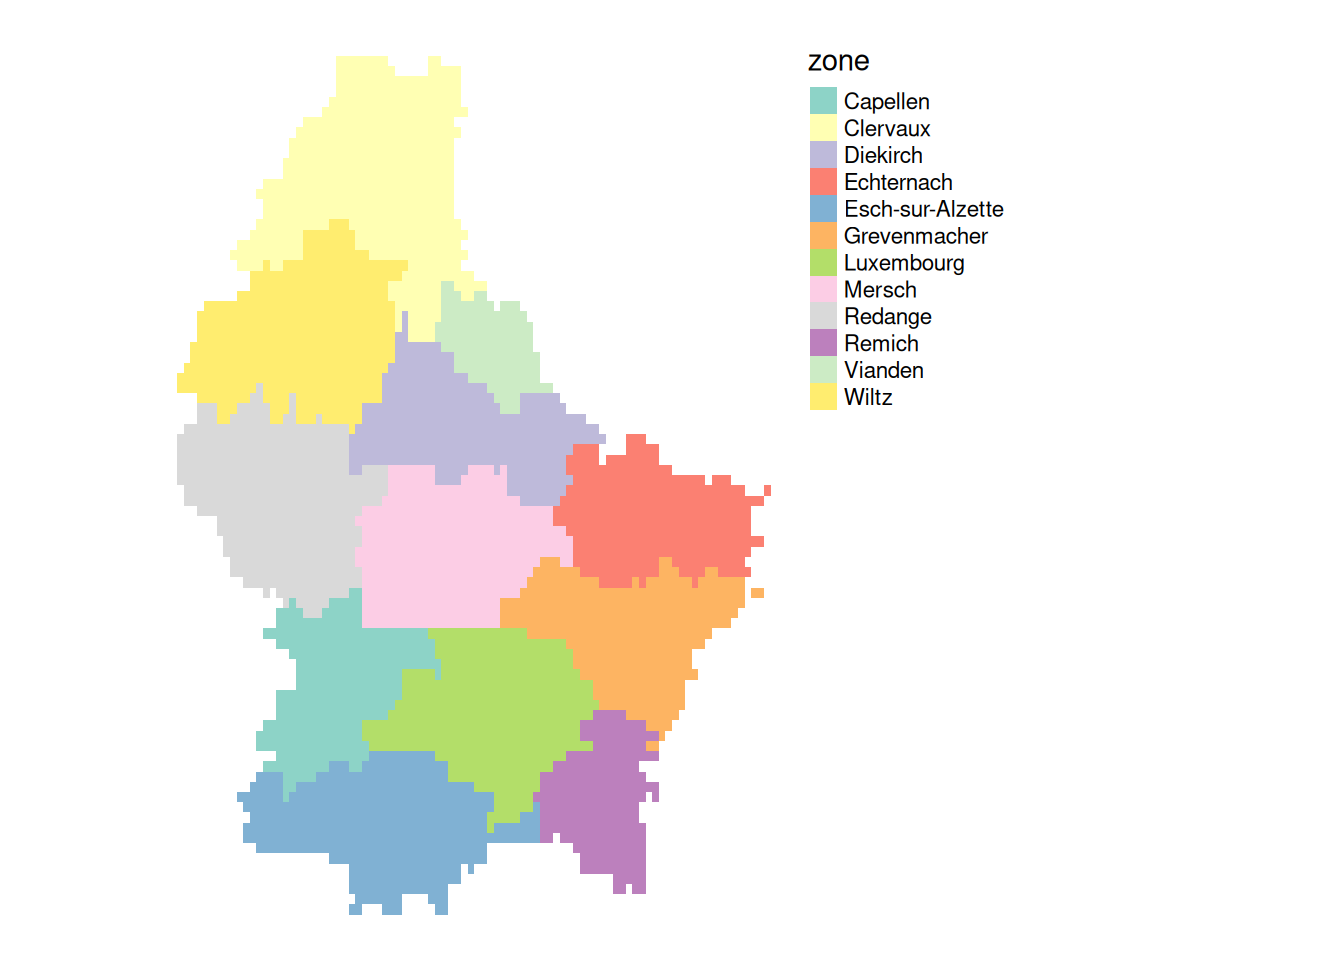
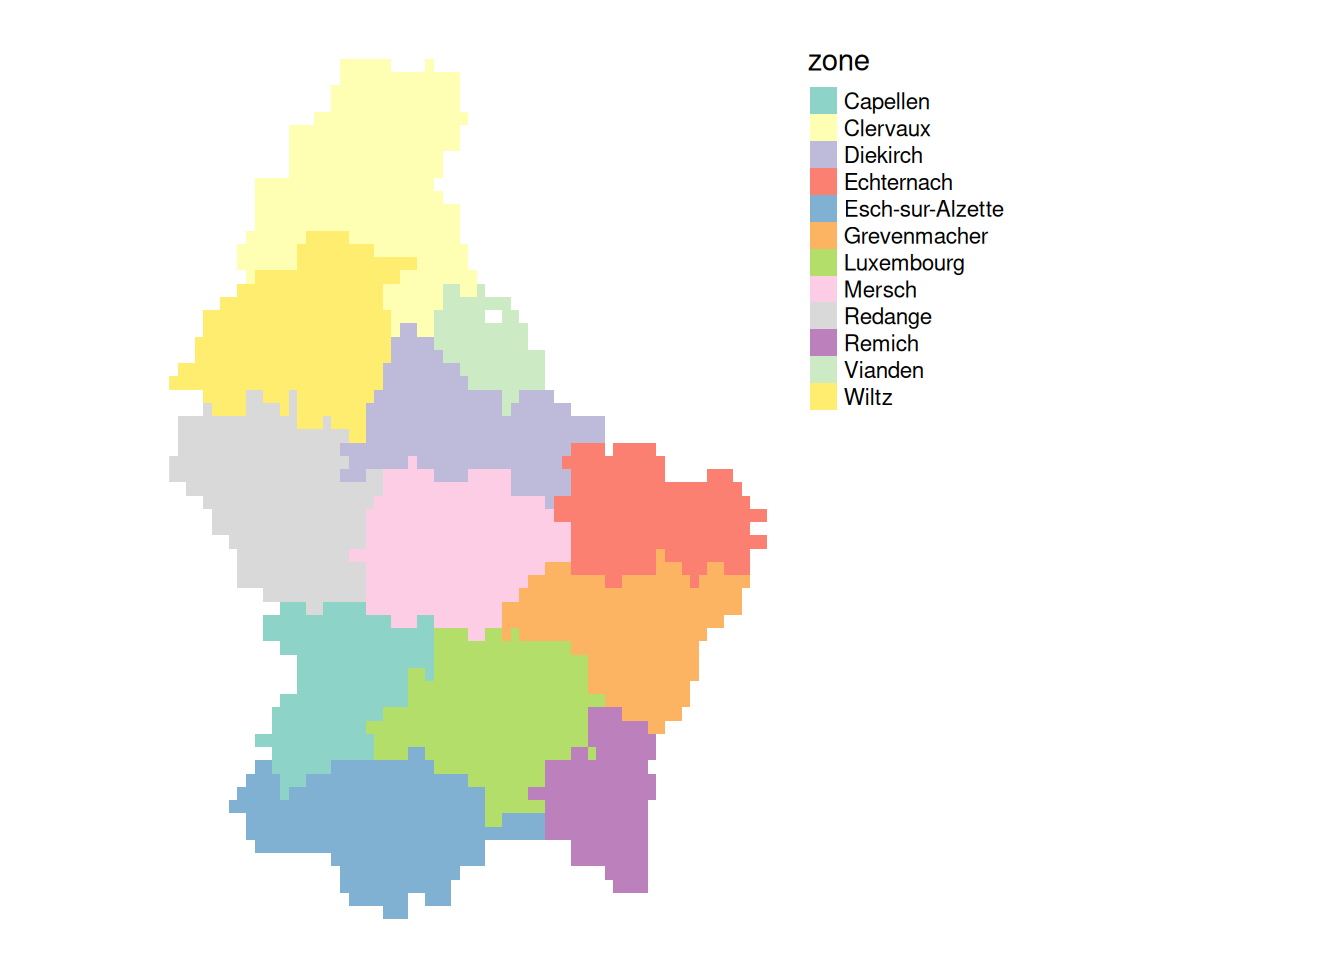
Built site for gh-pages

diff --git a/raster-vector-operations.html b/raster-vector-operations.html
@@ -248,6 +248,7 @@ pre > code.sourceCode > span > a:first-child::before { text-decoration: underlin
   <li><a href="#extracting-raster-values-at-vector-points" id="toc-extracting-raster-values-at-vector-points" class="nav-link" data-scroll-target="#extracting-raster-values-at-vector-points">Extracting raster values at vector points</a></li>
   <li><a href="#vector-to-raster-conversion" id="toc-vector-to-raster-conversion" class="nav-link" data-scroll-target="#vector-to-raster-conversion">Vector to raster conversion</a></li>
   <li><a href="#raster-to-vector-conversion" id="toc-raster-to-vector-conversion" class="nav-link" data-scroll-target="#raster-to-vector-conversion">Raster to vector conversion</a></li>
+  <li><a href="#tasks" id="toc-tasks" class="nav-link" data-scroll-target="#tasks">🪕 Tasks</a></li>
   </ul>
 </nav>
     </div>
@@ -378,6 +379,15 @@ Figure&nbsp;7.3: The resulting zones (mean elevation per zone), also as vector d
 <li><code>field</code>: The name of the column in the vector data that should be used to fill the raster cells</li>
 </ol></li>
 </ul>
+<div class="cell">
+<div class="sourceCode cell-code" id="cb4"><pre class="sourceCode r code-with-copy"><code class="sourceCode r"><span id="cb4-1"><a href="#cb4-1" aria-hidden="true" tabindex="-1"></a><span class="co"># we can create a template using the input vector. All we have to specify </span></span>
+<span id="cb4-2"><a href="#cb4-2" aria-hidden="true" tabindex="-1"></a><span class="co"># is the resolution of the output raster, which is evalutated in the units of</span></span>
+<span id="cb4-3"><a href="#cb4-3" aria-hidden="true" tabindex="-1"></a><span class="co"># the CRS of the input vector data (meters in our case).</span></span>
+<span id="cb4-4"><a href="#cb4-4" aria-hidden="true" tabindex="-1"></a></span>
+<span id="cb4-5"><a href="#cb4-5" aria-hidden="true" tabindex="-1"></a>template <span class="ot">&lt;-</span> <span class="fu">rast</span>(zones, <span class="at">resolution =</span> <span class="dv">1000</span>)</span>
+<span id="cb4-6"><a href="#cb4-6" aria-hidden="true" tabindex="-1"></a></span>
+<span id="cb4-7"><a href="#cb4-7" aria-hidden="true" tabindex="-1"></a>zones_raster <span class="ot">&lt;-</span> <span class="fu">rasterize</span>(zones, template, <span class="st">"zone"</span>)</span></code><button title="Copy to Clipboard" class="code-copy-button"><i class="bi"></i></button></pre></div>
+</div>
 <div class="cell page-columns page-full" data-layout-nrow="1">
 <div id="fig-vector-to-raster" class="quarto-layout-panel page-columns page-full">
 <figure class="quarto-float quarto-float-fig figure page-columns page-full">
@@ -436,8 +446,8 @@ Note
 <li>The resulting object will be of class <code>SpatVector</code>. This can be converted to the <code>sf</code> class using <code>st_as_sf()</code></li>
 </ul>
 <div class="cell">
-<div class="sourceCode cell-code" id="cb4"><pre class="sourceCode r code-with-copy"><code class="sourceCode r"><span id="cb4-1"><a href="#cb4-1" aria-hidden="true" tabindex="-1"></a>zones_poly <span class="ot">&lt;-</span> <span class="fu">as.polygons</span>(zones_raster) <span class="sc">|&gt;</span> </span>
-<span id="cb4-2"><a href="#cb4-2" aria-hidden="true" tabindex="-1"></a>  <span class="fu">st_as_sf</span>()</span></code><button title="Copy to Clipboard" class="code-copy-button"><i class="bi"></i></button></pre></div>
+<div class="sourceCode cell-code" id="cb5"><pre class="sourceCode r code-with-copy"><code class="sourceCode r"><span id="cb5-1"><a href="#cb5-1" aria-hidden="true" tabindex="-1"></a>zones_poly <span class="ot">&lt;-</span> <span class="fu">as.polygons</span>(zones_raster) <span class="sc">|&gt;</span> </span>
+<span id="cb5-2"><a href="#cb5-2" aria-hidden="true" tabindex="-1"></a>  <span class="fu">st_as_sf</span>()</span></code><button title="Copy to Clipboard" class="code-copy-button"><i class="bi"></i></button></pre></div>
 </div>
 <div class="cell page-columns page-full" data-layout-nrow="1">
 <div id="fig-raster-to-vector" class="quarto-layout-panel page-columns page-full">
@@ -474,6 +484,46 @@ Note
 Figure&nbsp;7.5: Note how the conversion back to polygons preserves the cell boundaries
 </figcaption>
 </figure>
+</div>
+</div>
+</section>
+<section id="tasks" class="level2">
+<h2 class="anchored" data-anchor-id="tasks">🪕 Tasks</h2>
+<ol type="1">
+<li>Import <code>Arealstatistik.gpkg</code> from <em>Spatial_Analysis_II</em> using <code>{sf}</code></li>
+<li>To rasterize the data, we need a template raster object. Create a template raster object with a resolution of 100m using the <code>rast()</code> function</li>
+<li>Rasterize the arealstatistik data using the function <code>rasterize</code>, the tempalte from the previous step, and the column <code>AS_4</code> as the field to fill the raster cells</li>
+</ol>
+<ol start="4" type="1">
+<li>The resulting raster contains the integer values 1 to 4. These values correspond to the following land use categories (see <a href="https://www.bfs.admin.ch/asset/en/1420906">metadata</a>):
+<ol type="1">
+<li>Settlement and urban areas</li>
+<li>Agricultural areas</li>
+<li>Wooded areas</li>
+<li>Unproductive areas</li>
+</ol></li>
+</ol>
+<p>To make the raster more interpretable, assign the corresponding names to the levels of the raster using the <code>levels()</code> function. The levels should be a data.frame with two columns: <code>ID</code> and <code>name</code> (see below)</p>
+<div class="cell">
+<div class="sourceCode cell-code" id="cb6"><pre class="sourceCode r code-with-copy"><code class="sourceCode r"><span id="cb6-1"><a href="#cb6-1" aria-hidden="true" tabindex="-1"></a>levs <span class="ot">&lt;-</span> <span class="fu">data.frame</span>(</span>
+<span id="cb6-2"><a href="#cb6-2" aria-hidden="true" tabindex="-1"></a>  <span class="at">ID =</span> <span class="dv">1</span><span class="sc">:</span><span class="dv">4</span>, </span>
+<span id="cb6-3"><a href="#cb6-3" aria-hidden="true" tabindex="-1"></a>  <span class="at">name =</span> <span class="fu">c</span>(</span>
+<span id="cb6-4"><a href="#cb6-4" aria-hidden="true" tabindex="-1"></a>    <span class="st">"Settlement and urban areas"</span>, </span>
+<span id="cb6-5"><a href="#cb6-5" aria-hidden="true" tabindex="-1"></a>    <span class="st">"Agricultural areas"</span>, </span>
+<span id="cb6-6"><a href="#cb6-6" aria-hidden="true" tabindex="-1"></a>    <span class="st">"Wooded areas"</span>, </span>
+<span id="cb6-7"><a href="#cb6-7" aria-hidden="true" tabindex="-1"></a>    <span class="st">"Unproductive areas"</span></span>
+<span id="cb6-8"><a href="#cb6-8" aria-hidden="true" tabindex="-1"></a>    ) </span>
+<span id="cb6-9"><a href="#cb6-9" aria-hidden="true" tabindex="-1"></a>  )</span>
+<span id="cb6-10"><a href="#cb6-10" aria-hidden="true" tabindex="-1"></a></span>
+<span id="cb6-11"><a href="#cb6-11" aria-hidden="true" tabindex="-1"></a><span class="fu">levels</span>(areal_rast) <span class="ot">&lt;-</span> levs</span>
+<span id="cb6-12"><a href="#cb6-12" aria-hidden="true" tabindex="-1"></a></span>
+<span id="cb6-13"><a href="#cb6-13" aria-hidden="true" tabindex="-1"></a><span class="fu">plot</span>(areal_rast)</span></code><button title="Copy to Clipboard" class="code-copy-button"><i class="bi"></i></button></pre></div>
+<div class="cell-output-display">
+<div>
+<figure class="figure">
+<p><img src="raster-vector-operations_files/figure-html/unnamed-chunk-13-1.png" class="img-fluid figure-img" width="672"></p>
+</figure>
+</div>
 </div>
 </div>
 

diff --git a/raster-operations.html b/raster-operations.html
@@ -305,7 +305,7 @@ window.Quarto = {
   <li><a href="#focal-weights-2" id="toc-focal-weights-2" class="nav-link" data-scroll-target="#focal-weights-2">Focal weights (2)</a></li>
   <li><a href="#focal-weights-3" id="toc-focal-weights-3" class="nav-link" data-scroll-target="#focal-weights-3">Focal weights (3)</a></li>
   <li><a href="#focal-functions-in-terrain-processing" id="toc-focal-functions-in-terrain-processing" class="nav-link" data-scroll-target="#focal-functions-in-terrain-processing">Focal functions in terrain processing</a></li>
-  <li><a href="#tasks-exercises" id="toc-tasks-exercises" class="nav-link" data-scroll-target="#tasks-exercises">Tasks / Exercises</a></li>
+  <li><a href="#tasks" id="toc-tasks" class="nav-link" data-scroll-target="#tasks">🪕 Tasks</a></li>
   </ul>
 </nav>
     </div>
@@ -887,8 +887,8 @@ Figure&nbsp;6.12: Calculating aspect
 </div>
 </div>
 </section>
-<section id="tasks-exercises" class="level2">
-<h2 class="anchored" data-anchor-id="tasks-exercises">Tasks / Exercises</h2>
+<section id="tasks" class="level2">
+<h2 class="anchored" data-anchor-id="tasks">🪕 Tasks</h2>
 <ol type="1">
 <li><p>Import the elevation of Luxembourg using the following code:</p>
 <div class="cell">
